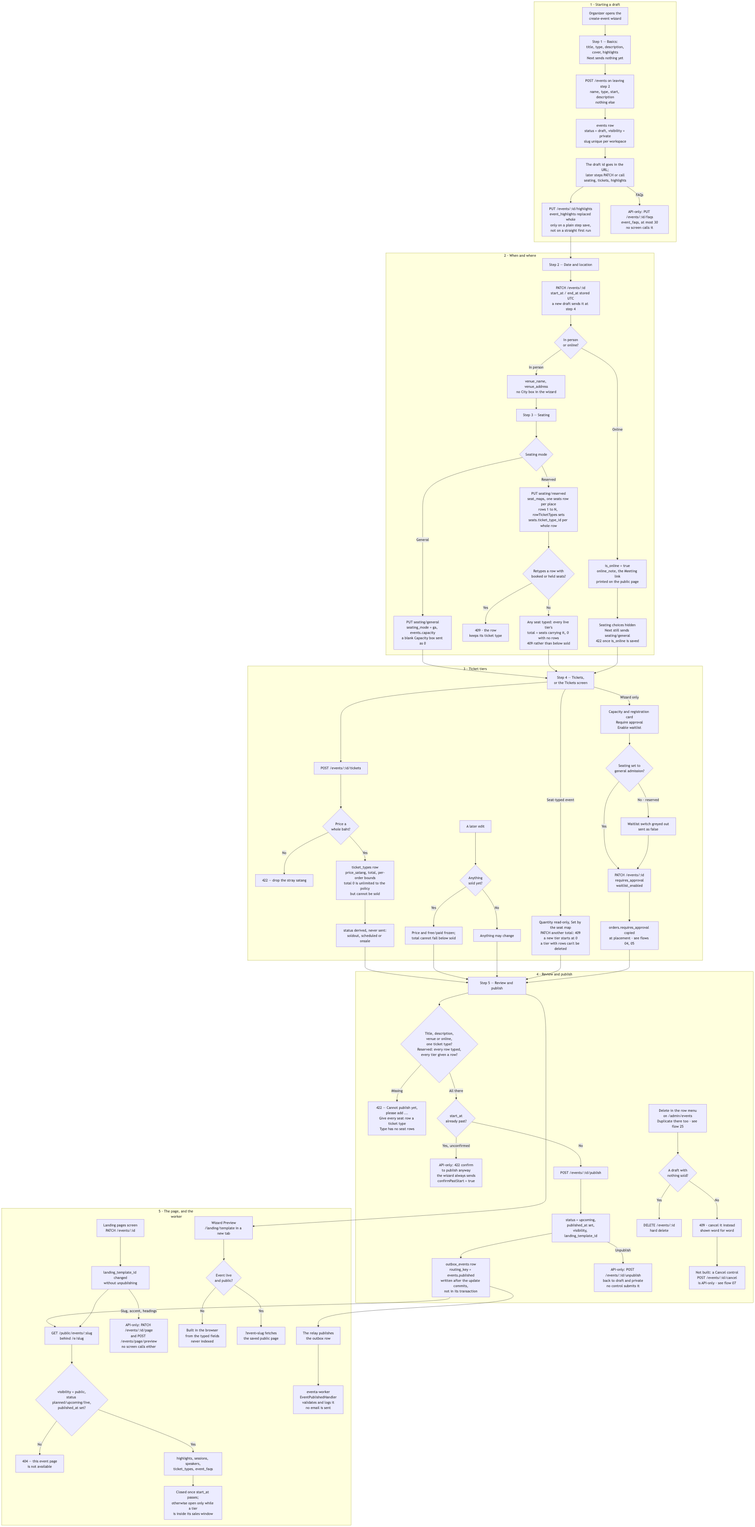
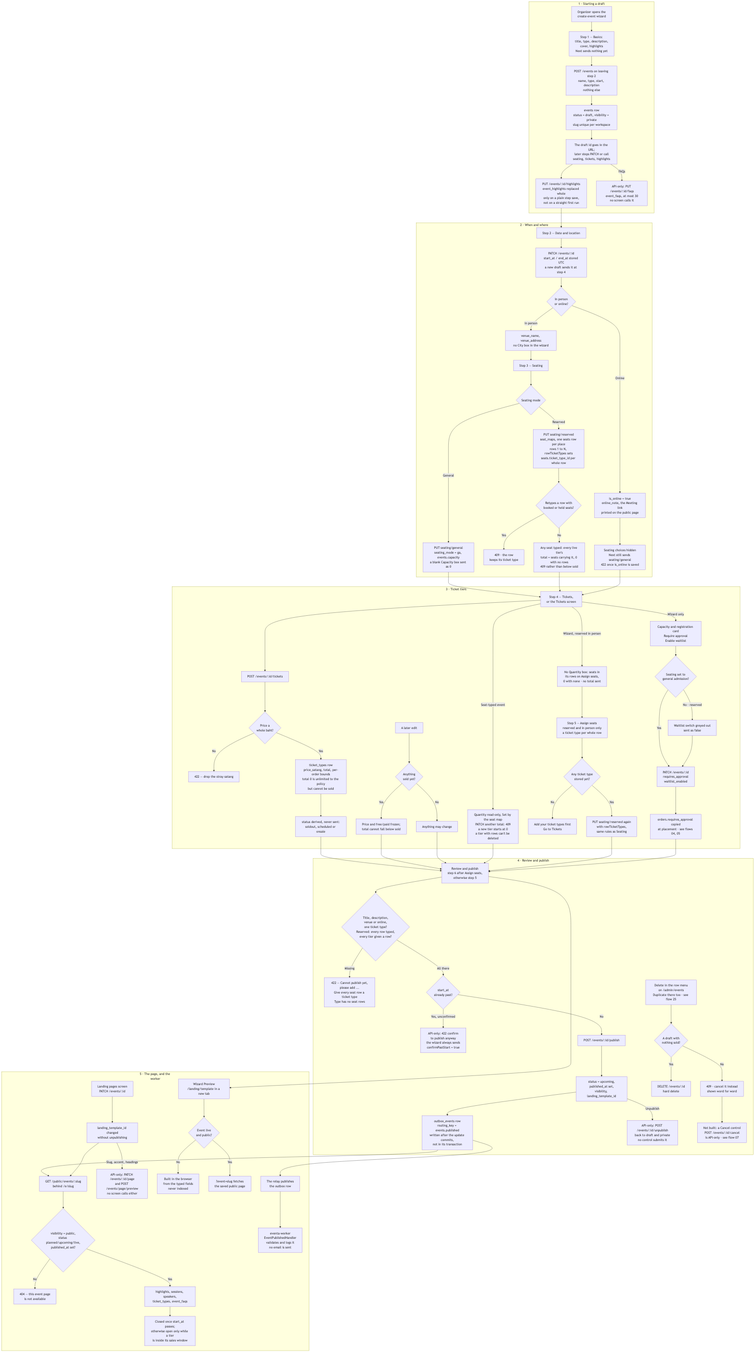
docs(flowcharts): draw the Assign seats step after Tickets (US-EVT-02, US-EVT-05, US-EVT-13)
Flowchart 13: the wizard has five steps, or six on an in-person reserved
event, where Assign seats follows Tickets and carries the Ticket types by
row list, its empty state and Go to Tickets; Seating keeps the layout and
preview with its hint, and both save through PUT seating/reserved. On
such an event the Tickets step has no Quantity box: it shows each tier's
seats from the row picks, 0 with none, and sends no total. New nodes for
the wizard's quantity, Assign seats and its save; Review and publish is
step 6 after Assign seats, else 5. Image re-rendered with Mermaid 11.4.1
(the old source reproduces the committed PNG byte for byte). Flowchart 25
says a duplicate's rows get their types on Assign seats.

Changed region(s): [[0.0, 0.0, 1.0, 1.0], [0.7188, 0.7126, 0.9688, 0.8675], [0.5312, 0.8056, 0.6562, 0.8675]]

diff --git a/04-architecture/flowcharts/13-create-and-publish-an-event.md b/04-architecture/flowcharts/13-create-and-publish-an-event.md
@@ -2,13 +2,13 @@
 
 **Screens:** Create event wizard, Landing pages, Tickets
 
-How an organizer turns an idea into a public page an attendee can register on. It starts in the admin console's five-step wizard, which creates a draft on the first save and edits it from then on, and ends when the event is live at its own public address and eventa-worker has consumed the publish notice. Nothing here is attendee-facing: the organizer persona signs in at `/auth/login` for `/admin/*`, and the page it produces needs no account at all to read. Copying an event into a new draft and deleting one are not part of the wizard: both live in the row menu on `/admin/events` and are drawn in [Categories, duplicating and deleting events](25-manage-events.md).
+How an organizer turns an idea into a public page an attendee can register on. It starts in the admin console's wizard — five steps, or six on an in-person event with reserved seating, where Assign seats follows Tickets — which creates a draft on the first save and edits it from then on, and ends when the event is live at its own public address and eventa-worker has consumed the publish notice. Nothing here is attendee-facing: the organizer persona signs in at `/auth/login` for `/admin/*`, and the page it produces needs no account at all to read. Copying an event into a new draft and deleting one are not part of the wizard: both live in the row menu on `/admin/events` and are drawn in [Categories, duplicating and deleting events](25-manage-events.md).
 
 ![Create and publish an event](images/13-create-and-publish-an-event.png)
 
 1. **Starting a draft.** The wizard at `/admin/event-form` opens blank and makes no calls at all until something is saved — on the API this is not one submit but a create followed by a long run of patches. `POST /events` needs a start and the start is asked for on step 2, so Next on Basics sends nothing and step 2's Next stays disabled until a title and a start date are filled; leaving step 2 is the create. That first save posts to `/events` (permission `evCreate`) with only a name, a type from the `event_type` enum, a start instant and an optional description — nothing else the first two steps hold, so the venue, end, online flag and cover typed there are first written by a later `PATCH` (on a straight run, step 4's) — and inserts an `events` row with `status = 'draft'`, `bucket = 'active'`, `visibility = 'private'` and `published_at` still null. The slug is derived from the name (latin `a-z0-9` and hyphens, at most 80 characters), falls back to `event` when that leaves fewer than three characters (a Thai-only title, for instance), and is tried as `-2`, `-3`… until it is free, because `uq_events_org_slug` makes it unique per workspace rather than globally; `organizer_name` falls back to the workspace's own name and `created_by` records who did it. The description is rich text the organizer authors in Quill and an anonymous reader later loads, so it is sanitised on the way **in** and capped at 10,000 characters of markup. The new id goes straight into the URL — from then on a refresh or a closed tab cannot strand a draft nobody can find. The cover image is a separate two-step upload (`POST /events/cover/upload-url`, then `PUT` straight to storage, then `POST /events/cover`); it writes to no table, is staged per **organization** rather than per event because step 1 runs before a draft exists to key it to, and only the confirmed URL is saved, in `events.cover_image`. The Basics step's highlights are a `PUT /events/:id/highlights` that replaces `event_highlights` as a whole — at most 12 — so what the organizer sees is exactly what the page renders. That call goes out only with the wizard's plain step save — Next on Basics or Date & location once the draft exists, or the header's Save on those steps or on Review — never with the create, seating, tickets or publish calls; so on a straight first run through a new event the highlights typed on Basics are never sent, unless the organizer goes back and saves one of those steps. FAQs have the same shape on the API — `PUT /events/:id/faqs` (`evCreate`) replaces `event_faqs` whole, at most 30 — but that endpoint is **API-only: no screen calls it**. The wizard has no FAQ field and no other console screen authors FAQs, so `event_faqs` stays empty unless something calls the API directly, and every template simply leaves the FAQ section out when there are none.
-2. **When and where.** Step 2's fields reach `events` through `PATCH /events/:id` — on an existing draft when step 2 is left, on a new one only with step 4's save, because leaving step 2 was the create. `start_at` and `end_at` are `timestamptz` — stored UTC, typed and displayed in Asia/Bangkok, with `events.timezone` defaulting to `'Asia/Bangkok'`. An end before or equal to the start is refused. An in-person event fills `venue_name` and `venue_address` — the wizard has no City box and re-sends whatever `city` is already stored, blank for a new event; an online one sets `is_online = true` with an `online_note`, and the public page then never publishes a physical location even if one is stored. It does publish `online_note` itself: the wizard labels that box **Meeting link** with a hint that it is emailed after registration, yet `GET /public/events/:slug` returns it and every template prints it in place of "Join link sent after you register". Step 3 is the room. General admission is a headcount: `PUT /events/:eventId/seating/general` sets `seating_mode = 'ga'` and writes the number into `events.capacity`. Reserved seating is a grid: `PUT /events/:eventId/seating/reserved` writes one `seat_maps` row per event (`uq_seat_maps_event`) carrying `layout` as `{ rows, seatsPerRow }` and `total_seats`, plus one `seats` row per position with `status = 'available'` — the `seat_status` enum is `available`, `held`, `reserved`, `sold`, `blocked`. Rows are numbered, not lettered: `seats.row_label` is `"1"` to `"N"`, and the wizard's preview labels them the same way. The same request splits the map between the event's ticket types by **whole rows**: `rowTicketTypes` carries one entry per row (index 0 is row `"1"`), each a live tier of this event or `null`, and the save writes that tier into `seats.ticket_type_id` on every seat of the row. A tier from anywhere else is a 422 ("Row {n}'s ticket type isn't one of this event's ticket types."), and so is a list whose length is not the row count; leaving the list out keeps each surviving row's type and gives new rows none. It is one transaction, locking the seat map, then the event's live `ticket_types`, then the map's `seats`. A row that has any seat booked (a `seat_assignments` row with `released_at` null) or held (an `active`, unexpired `seat_holds` row) keeps its type: a save that would change it is a 409, "Row {n} has booked or held seats, so its ticket type can't change.", read through a port the registration side implements. Once any seat on the map carries a tier the event is **seat-typed**, and in the same transaction Ticketing — through a port that takes the transaction — sets every live tier's `total` to the number of seats carrying it, `0` for a tier with no rows, and re-derives its `status` as it does whenever `total` changes; it never writes a `total` below `sold`, refusing the whole save with a 409 instead ("{Type} has sold {sold} tickets, more than the {n} seats its rows now hold."). `GET …/seating`, and the save's own response, return `rows` (`rowLabel`, `ticketTypeId`, `seats`, sorted numerically) and `unassignedRows`. The Seating step draws this as a **Ticket types by row** list — Row 1 to Row N, each a select of the event's ticket types plus "No ticket type" — and colours the preview by type, with a legend of each type's name and seat count and unassigned rows in a neutral colour. Tickets is the next step, so on a first run there is nothing to choose yet and the step says "Add your ticket types in the Tickets step, then come back here to give each row a type." A map laid out before rows carried types, with every seat's `ticket_type_id` null, is not seat-typed: its tiers keep their typed totals and checkout sells any of its seats under any tier, until a save gives its rows types. Switching a reserved event back to general admission drops the map. Either way an **online** event is refused outright with a 422 ("Online events have no seating — …"), and on an event that is no longer a draft a layout change that would remove a seat already `sold` is refused too. The wizard hides the seating choices for an online event, but its Next still sends `PUT …/seating/general`: on a first run that succeeds, because `is_online` has not been saved yet, and once it has, the refusal shows as the wizard's error banner while it moves on to Tickets. The wizard has no headcount box on this step either: the number it sends is the **Capacity** box on step 4's card, and a blank box is sent as `0`. So a first run, which leaves Seating before that box is reached, stores `events.capacity = 0` until step 4's `PATCH` carries a number; left blank there, the nought stays — that `PATCH` omits a blank capacity, and `UpdateEventDto.capacity` must be positive — and a reload shows `0`. The summary rail still renders `—` for a blank or zero capacity, because "as many as the tiers allow" and "nobody may come" are different facts, but the stored value says nought.
-3. **Ticket tiers.** Step 4, and the standalone Tickets screen at `/admin/tickets`, both write `ticket_types` through `POST /events/:eventId/tickets` and `PATCH /events/:eventId/tickets/:ticketId`. `price_satang` is integer satang and VAT-inclusive; prices are set in whole baht, so a stray satang is refused, and the browser converts what was typed with `Math.round(baht × 100)` rather than sending a float. A free tier sets `is_free` and is held to a zero price by `ck_ticket_types_free_price`. `total` is the allocation, and the ticketing policy reads `0` as unlimited — never derived `soldout`, no per-order ceiling — but nothing downstream agrees: `ck_ticket_types_sold` keeps `sold` between 0 and `total`, the seat-hold engine counts free places as `total - sold - held`, and the public page counts `total - sold` remaining, so a tier left at `0` — which is what a blank Quantity box in the wizard creates — is shown sold out and cannot actually be sold. `min_per_order` and `max_per_order` sit inside the platform's eight-seat booking cap and, where the organizer types the allocation, inside the allocation itself. On a seat-typed event (below) the seat map sets the allocation, so the per-order limit answers to the eight-seat cap alone: a tier whose rows hold four seats can keep a limit of 8, since otherwise every edit to it would be refused over a number the organizer cannot change here. What the tier is **not** given is its own availability: `status` is always derived server-side by the ticketing policy — `soldout` when the allocation is exhausted, `scheduled` while `sales_start_at` is still ahead, otherwise `onsale` — so the only value a human owns is `paused`, which survives until Resume and is refused a resume once `sales_end_at` has passed. Two rules protect sales already made: once `sold > 0` the price and the paid/free setting are frozen (a new tier is the answer), and `total` can never be set below `sold`. Raising `total` is the one edit with a side effect — the new places are offered to anyone waiting (see [Waitlist](04-waitlist.md)), and a failure there is reported as the offers being cut short rather than undoing the organizer's capacity change. Deleting a tier that never sold erases the row; one with sales is soft-deleted via `deleted_at`, so it leaves the list and stops selling while every issued ticket still resolves to it. The last remaining tier cannot go, and neither can one somebody is checking out with — an active `seat_holds` row refuses the delete with a sentence saying to pause it and try again. On a **seat-typed** event (step 2) the quantity belongs to the seat map, not the organizer. The ticket list and detail responses carry `quantityFromSeats: true` (`false` on every other event), so the wizard's Tickets step and the Tickets screen show the seat count read-only, marked "Set by the seat map"; a `PATCH` with any other `total` is a 409 ("This event's ticket quantities come from its seat map. Give rows to a ticket type instead."), while sending the same number, or changing any other field, goes through. A tier created on a seat-typed event starts at `total = 0` until Seating gives it rows, whatever `total` the request sent; and a tier that still owns rows can be neither deleted nor retired — a 409, "{Type} still has seat rows. Give them to another ticket type first." The same wizard step also carries the event's two registration rules, on a **Capacity & registration** card under the tier table — the only place in the console that sets them; the standalone Tickets screen does not. Saving the step sends both in the `PATCH /events/:id` (`evCreate`) that goes out before any tier is written, into `events.requires_approval` and `events.waitlist_enabled`, each `false` until switched on. **Require approval** holds every registration placed from then on for the organizer's decision (see [Approval](05-approval.md)). It is copied onto each `orders` row as `orders.requires_approval` at placement, so flipping the switch later never changes the deal a buyer was shown; and while it is on, a raised `total` no longer offers its new places to the line by itself — the organizer offers them by hand, because handing out a place on such an event is itself the decision. **Enable waitlist** only means something on general admission. When step 3 chose reserved seating the switch is greyed out, with a hint that a freed seat cannot be offered without somebody choosing it, and the wizard sends `false` whatever it was left at. The API does not refuse the combination at write time — `PATCH /events/:id` accepts `waitlistEnabled = true` on a reserved event — but the rule holds where it matters: checkout refuses to join a reserved event's line ("The waitlist is for general-admission tickets; this event seats people by seat."), and a raised allocation never offers places to one (see [Waitlist](04-waitlist.md)).
+2. **When and where.** Step 2's fields reach `events` through `PATCH /events/:id` — on an existing draft when step 2 is left, on a new one only with step 4's save, because leaving step 2 was the create. `start_at` and `end_at` are `timestamptz` — stored UTC, typed and displayed in Asia/Bangkok, with `events.timezone` defaulting to `'Asia/Bangkok'`. An end before or equal to the start is refused. An in-person event fills `venue_name` and `venue_address` — the wizard has no City box and re-sends whatever `city` is already stored, blank for a new event; an online one sets `is_online = true` with an `online_note`, and the public page then never publishes a physical location even if one is stored. It does publish `online_note` itself: the wizard labels that box **Meeting link** with a hint that it is emailed after registration, yet `GET /public/events/:slug` returns it and every template prints it in place of "Join link sent after you register". Step 3 is the room. General admission is a headcount: `PUT /events/:eventId/seating/general` sets `seating_mode = 'ga'` and writes the number into `events.capacity`. Reserved seating is a grid: `PUT /events/:eventId/seating/reserved` writes one `seat_maps` row per event (`uq_seat_maps_event`) carrying `layout` as `{ rows, seatsPerRow }` and `total_seats`, plus one `seats` row per position with `status = 'available'` — the `seat_status` enum is `available`, `held`, `reserved`, `sold`, `blocked`. Rows are numbered, not lettered: `seats.row_label` is `"1"` to `"N"`, and the wizard's preview labels them the same way. The same request splits the map between the event's ticket types by **whole rows**: `rowTicketTypes` carries one entry per row (index 0 is row `"1"`), each a live tier of this event or `null`, and the save writes that tier into `seats.ticket_type_id` on every seat of the row. A tier from anywhere else is a 422 ("Row {n}'s ticket type isn't one of this event's ticket types."), and so is a list whose length is not the row count; leaving the list out keeps each surviving row's type and gives new rows none. It is one transaction, locking the seat map, then the event's live `ticket_types`, then the map's `seats`. A row that has any seat booked (a `seat_assignments` row with `released_at` null) or held (an `active`, unexpired `seat_holds` row) keeps its type: a save that would change it is a 409, "Row {n} has booked or held seats, so its ticket type can't change.", read through a port the registration side implements. Once any seat on the map carries a tier the event is **seat-typed**, and in the same transaction Ticketing — through a port that takes the transaction — sets every live tier's `total` to the number of seats carrying it, `0` for a tier with no rows, and re-derives its `status` as it does whenever `total` changes; it never writes a `total` below `sold`, refusing the whole save with a 409 instead ("{Type} has sold {sold} tickets, more than the {n} seats its rows now hold."). `GET …/seating`, and the save's own response, return `rows` (`rowLabel`, `ticketTypeId`, `seats`, sorted numerically) and `unassignedRows`. The wizard gives this a step of its own. On an in-person event with reserved seating — and only there — **Assign seats** comes after Tickets, so the rail reads Basics, Date & location, Seating, Tickets, Assign seats, Review & publish; general admission and online events keep the five steps without it. The list is worked out from the seating choice and the online flag, so switching back to general admission drops the step again and keeps the open step inside the shorter list. The Seating step keeps the layout — rows, seats per row and the total — with the preview, under which it says "After Tickets, give each row a ticket type in Assign seats." Assign seats draws the **Ticket types by row** list — Row 1 to Row N, each a select of the event's stored ticket types plus "No ticket type" — and colours the same preview by type, with a legend of each type's name and seat count and unassigned rows in a neutral colour. A row can point only at a tier the API has stored, so until the Tickets step has saved one, Assign seats says "Add your ticket types in the Tickets step first, then give each row one here." and offers a **Go to Tickets** button instead. Both steps save through the same `PUT …/seating/reserved`, carrying the map and the whole `rowTicketTypes` list: on a first run Seating's save lays out rows that have no type yet, and Assign seats' save is the one that types them and so sets the tiers' totals. A map laid out before rows carried types, with every seat's `ticket_type_id` null, is not seat-typed: its tiers keep their typed totals and checkout sells any of its seats under any tier, until a save gives its rows types. Switching a reserved event back to general admission drops the map. Either way an **online** event is refused outright with a 422 ("Online events have no seating — …"), and on an event that is no longer a draft a layout change that would remove a seat already `sold` is refused too. The wizard hides the seating choices for an online event, but its Next still sends `PUT …/seating/general`: on a first run that succeeds, because `is_online` has not been saved yet, and once it has, the refusal shows as the wizard's error banner while it moves on to Tickets. The wizard has no headcount box on this step either: the number it sends is the **Capacity** box on step 4's card, and a blank box is sent as `0`. So a first run, which leaves Seating before that box is reached, stores `events.capacity = 0` until step 4's `PATCH` carries a number; left blank there, the nought stays — that `PATCH` omits a blank capacity, and `UpdateEventDto.capacity` must be positive — and a reload shows `0`. The summary rail still renders `—` for a blank or zero capacity, because "as many as the tiers allow" and "nobody may come" are different facts, but the stored value says nought.
+3. **Ticket tiers.** Step 4, and the standalone Tickets screen at `/admin/tickets`, both write `ticket_types` through `POST /events/:eventId/tickets` and `PATCH /events/:eventId/tickets/:ticketId`. `price_satang` is integer satang and VAT-inclusive; prices are set in whole baht, so a stray satang is refused, and the browser converts what was typed with `Math.round(baht × 100)` rather than sending a float. A free tier sets `is_free` and is held to a zero price by `ck_ticket_types_free_price`. `total` is the allocation, and the ticketing policy reads `0` as unlimited — never derived `soldout`, no per-order ceiling — but nothing downstream agrees: `ck_ticket_types_sold` keeps `sold` between 0 and `total`, the seat-hold engine counts free places as `total - sold - held`, and the public page counts `total - sold` remaining, so a tier left at `0` — which is what a blank Quantity box in the wizard creates on a general-admission or online event — is shown sold out and cannot actually be sold. `min_per_order` and `max_per_order` sit inside the platform's eight-seat booking cap and, where the organizer types the allocation, inside the allocation itself. On a seat-typed event (below) the seat map sets the allocation, so the per-order limit answers to the eight-seat cap alone: a tier whose rows hold four seats can keep a limit of 8, since otherwise every edit to it would be refused over a number the organizer cannot change here. What the tier is **not** given is its own availability: `status` is always derived server-side by the ticketing policy — `soldout` when the allocation is exhausted, `scheduled` while `sales_start_at` is still ahead, otherwise `onsale` — so the only value a human owns is `paused`, which survives until Resume and is refused a resume once `sales_end_at` has passed. Two rules protect sales already made: once `sold > 0` the price and the paid/free setting are frozen (a new tier is the answer), and `total` can never be set below `sold`. Raising `total` is the one edit with a side effect — the new places are offered to anyone waiting (see [Waitlist](04-waitlist.md)), and a failure there is reported as the offers being cut short rather than undoing the organizer's capacity change. Deleting a tier that never sold erases the row; one with sales is soft-deleted via `deleted_at`, so it leaves the list and stops selling while every issued ticket still resolves to it. The last remaining tier cannot go, and neither can one somebody is checking out with — an active `seat_holds` row refuses the delete with a sentence saying to pause it and try again. On a **seat-typed** event (step 2) the quantity belongs to the seat map, not the organizer. The ticket list and detail responses carry `quantityFromSeats: true` (`false` on every other event), so the Tickets screen shows the seat count read-only, marked "Set by the seat map"; a `PATCH` with any other `total` is a 409 ("This event's ticket quantities come from its seat map. Give rows to a ticket type instead."), while sending the same number, or changing any other field, goes through. The wizard goes further: on **any** in-person reserved event, seat-typed yet or not, its Tickets step has no Quantity box. Each tier shows, read-only under the same "Set by the seat map", the seats its rows hold, counted from the row picks on Assign seats as they stand — rows of that type times seats per row, so it moves the moment a row changes hands, and `0` for a tier not yet saved or with no rows — and a note under the list says "Each type's quantity is the seats in its rows — give rows a type in the next step, Assign seats." The step's save leaves `total` out of every tier's request: a new tier is created at `0`, and an existing one keeps what is stored until Assign seats types the map and the seat counts replace it. Meanwhile, on a map laid out before rows carried types, whose totals are still the organizer's, the stored number can be changed only outside the wizard, on the Tickets screen. A tier created on a seat-typed event starts at `total = 0` until Assign seats gives it rows, whatever `total` the request sent; and a tier that still owns rows can be neither deleted nor retired — a 409, "{Type} still has seat rows. Give them to another ticket type first." The same wizard step also carries the event's two registration rules, on a **Capacity & registration** card under the tier table — the only place in the console that sets them; the standalone Tickets screen does not. Saving the step sends both in the `PATCH /events/:id` (`evCreate`) that goes out before any tier is written, into `events.requires_approval` and `events.waitlist_enabled`, each `false` until switched on. **Require approval** holds every registration placed from then on for the organizer's decision (see [Approval](05-approval.md)). It is copied onto each `orders` row as `orders.requires_approval` at placement, so flipping the switch later never changes the deal a buyer was shown; and while it is on, a raised `total` no longer offers its new places to the line by itself — the organizer offers them by hand, because handing out a place on such an event is itself the decision. **Enable waitlist** only means something on general admission. When step 3 chose reserved seating the switch is greyed out, with a hint that a freed seat cannot be offered without somebody choosing it, and the wizard sends `false` whatever it was left at. The API does not refuse the combination at write time — `PATCH /events/:id` accepts `waitlistEnabled = true` on a reserved event — but the rule holds where it matters: checkout refuses to join a reserved event's line ("The waitlist is for general-admission tickets; this event seats people by seat."), and a raised allocation never offers places to one (see [Waitlist](04-waitlist.md)).
 4. **Review and publish.** `POST /events/:id/publish` needs the stronger `evPublish` permission, and refuses a draft that is not ready. The readiness gate asks for four things — a title, a description, a venue or an online link (checked as a `venue_name` or `is_online = true`), and at least one ticket type — and answers a 422 naming the ones still missing ("Cannot publish yet — please add …"). A reserved event must also have a ticket type on every seat row and at least one row for every live ticket type, and those gaps join the same 422 as sentences of their own, after any "Cannot publish yet — please add …": "Give every seat row a ticket type before publishing." and "{Type} has no seat rows. Give it a row or remove it." (the error's details list `seating` beside the other requirement keys). A draft whose map was laid out before rows carried types counts as having untyped rows — that one sentence, not one per ticket type as well — so it cannot publish until they get types; an event that is already published is never re-checked. The wizard's checklist applies the same rules locally, so the button and the server agree before it is pressed, and counts only tiers the API has actually stored; on a reserved event it adds "Every seat row has a ticket type" and keeps Publish disabled while a row has none. A ticket type with no rows is not checked locally: that refusal reaches the organizer as the API's sentence in the page's error banner. A start date already in the past is refused with a 422 unless the request carries `confirmPastStart` — but the wizard always sends `confirmPastStart: true`, without asking, so from the console a past start publishes with no prompt and that refusal is **API-only**. A `version` that no longer matches is a 409 asking for a reload, which is what stops two people publishing different drafts of the same event. On success the row moves to `status = 'upcoming'` with `bucket = 'active'` and `published_at` stamped, and the request's optional `visibility` and `landing_template_id` are applied in the same write. Worth knowing: `planned` and `live` exist in the `event_status` enum and are accepted as live by the public-page, discover and checkout queries, but nothing ever writes them — publishing always lands on `upcoming`. Once that write has committed, the service enqueues an `outbox_events` row with `aggregate_type = 'event'` and `routing_key = 'events.published'` — through `OutboxPort.enqueue` on its own connection, not `enqueueIn` inside the update's transaction, so the state change and the message about it do **not** commit together: a failure between the two leaves a published event with no `events.published` row, and the organizer an error for a publish that stood. Unpublishing, `POST /events/:id/unpublish` (`evPublish`), is the exact reverse and loses nothing: `status` back to `draft`, `visibility` back to `private`, `published_at` cleared, every tier, seat and highlight preserved — but it is **API-only: no screen calls it**; the wizard's route action keeps an `unpublish` branch that no control submits. Deleting and duplicating happen in the row menu on `/admin/events`, not here (see [Categories, duplicating and deleting events](25-manage-events.md) steps 5 and 6). `DELETE /events/:id` (`evPublish`) hard-deletes only a draft with nothing sold; a published event, or a draft with registrations, is refused with a 409 whose sentence tells the organizer to cancel it instead — but **the console has no Cancel control**. The row menu shows that sentence word for word and offers nothing more, and `POST /events/:id/cancel` is **API-only: no screen calls it** (see [Refund and cancellation](07-refund-and-cancellation.md) step 1).
 5. **The page, and the worker.** The public page lives at `/e/<slug>` and is served by `GET /public/events/:slug`, which returns a row only when `visibility = 'public'`, `status` is one of `planned`/`upcoming`/`live`, `published_at` is not null and `deleted_at` is null — anything else is a plain "This event page isn't available." `unlisted` is in the `visibility` enum but is not treated as reachable by that query, so today only `public` has a page. The payload is assembled read-only from `event_highlights`, `sessions`, `speakers`, `ticket_types` and `event_faqs`, with the accent colour falling back to `#2563EB` when none is stored or the stored one is not `#rrggbb`, and the template falling back to `aurora`. Registration is reported closed once `start_at` has passed and "not open yet" while every tier sits outside its sales window — a tier whose stored `status` still reads `onsale` is refused at checkout outside its sales window, because registration's own eligibility rules check the window rather than trusting that badge, which is deliberate (see [Checkout and payment](02-checkout-and-payment.md)); an event with `requires_approval` set confirms nothing at checkout either (see [Approval](05-approval.md)). The **Landing pages** screen offers the four designs — `aurora` (Classic), `noir` (Spotlight), `minimal` (Minimal), `atlas` (Vibrant), seeded into the global `landing_templates` lookup — and "Use template" is a plain `PATCH /events/:id` setting `landing_template_id` on the event chosen in the screen's switcher (with no event yet it is only a link to the wizard), deliberately so: it used to be settable only while publishing, which meant wanting a new look required taking a live event down. Everything else about the page is **API-only: no screen calls it**. `PATCH /events/:id/page` (`evPublish`) can move the slug (409 when it is taken in the workspace), the accent colour and the agenda/speakers headings, and `POST /events/page/preview` (`evCreate`) renders a page from values that have never been saved — it writes nothing and is flagged `noIndex` so a preview can never leak into search. No console screen lets an organizer change the address, the accent colour or those headings, and the wizard's own update leaves `accentColor` out, so a value set through the API survives a save. The wizard's **Preview** button — in its header on every step, and again on the review step — does not use that endpoint either. On an event that is not yet served publicly it opens `/landing/<template>` in a new tab with the typed title, venue, online flag and highlights packed into the query string, and the page is built in the browser from those alone, with no agenda, speakers, tickets or FAQs: no API call, never indexed. Once the event is live and `public` it opens `/landing/<template>?event=<slug>` instead, which fetches the real public page and therefore shows what is saved, not what is on screen. Finally, the asynchronous part, which is the piece readers most often get wrong: **publishing sends no email.** The API only wrote the `outbox_events` row; the relay publishes it to RabbitMQ, and eventa-worker's `EventPublishedHandler` consumes `events.published`, validates the payload and writes it to the structured log, nothing more — delivering the team's "Event published" notification is deferred, because the message carries a slug, a name and who published it, and no recipient addresses at all.
 
@@ -51,6 +51,11 @@ flowchart TD
     X -- "Yes" --> Y["Price and free/paid frozen;<br/>total cannot fall below sold"]
     X -- "No" --> Z["Anything may change"]
     Q -- "Seat-typed event" --> QS["Quantity read-only, Set by the seat map<br/>PATCH another total: 409<br/>a new tier starts at 0<br/>a tier with rows can't be deleted"]
+    Q -- "Wizard, reserved in person" --> QW["No Quantity box: seats in<br/>its rows on Assign seats,<br/>0 with none · no total sent"]
+    QW --> AS["Step 5 — Assign seats<br/>reserved and in person only<br/>a ticket type per whole row"]
+    AS --> AS1{"Any ticket type<br/>stored yet?"}
+    AS1 -- "No" --> AS2["Add your ticket types first<br/>Go to Tickets"]
+    AS1 -- "Yes" --> AS3["PUT seating/reserved again<br/>with rowTicketTypes,<br/>same rules as Seating"]
     Q -- "Wizard only" --> SW1["Capacity and registration card<br/>Require approval<br/>Enable waitlist"]
     SW1 --> SW2{"Seating set to<br/>general admission?"}
     SW2 -- "No · reserved" --> SW3["Waitlist switch greyed out<br/>sent as false"]
@@ -60,7 +65,7 @@ flowchart TD
   end
 
   subgraph GATE["4 · Review and publish"]
-    AA["Step 5 — Review and publish"] --> AB{"Title, description,<br/>venue or online,<br/>one ticket type?<br/>Reserved: every row typed,<br/>every tier given a row?"}
+    AA["Review and publish<br/>step 6 after Assign seats,<br/>otherwise step 5"] --> AB{"Title, description,<br/>venue or online,<br/>one ticket type?<br/>Reserved: every row typed,<br/>every tier given a row?"}
     AB -- "Missing" --> AC["422 — Cannot publish yet,<br/>please add ...<br/>Give every seat row a ticket type<br/>Type has no seat rows"]
     AB -- "All there" --> AD{"start_at<br/>already past?"}
     AD -- "Yes, unconfirmed" --> AE["API-only: 422 confirm<br/>to publish anyway<br/>the wizard always sends<br/>confirmPastStart = true"]
@@ -95,6 +100,7 @@ flowchart TD
   Y --> AA
   Z --> AA
   QS --> AA
+  AS3 --> AA
   SW5 --> AA
   AH --> AI
   AH --> AP

diff --git a/04-architecture/flowcharts/25-manage-events.md b/04-architecture/flowcharts/25-manage-events.md
@@ -35,7 +35,7 @@ What an organizer does with events after creating them. The flow starts on `/adm
      Not carried over: `agenda_title`, `speakers_title`, `locale`, `event_highlights`, `event_faqs`, `discount_codes` and invitations.
    - **The ticket tiers.** Every live `ticket_types` row is copied with its name, `is_free`, `price_satang`, currency, admission type, `total`, per-order limits and icon. `sold` starts at its column default of 0, and `sales_start_at` and `sales_end_at` are cleared. **`status` is copied as it was stored**, not re-derived. A tier stored as `soldout`, `scheduled` or `paused` arrives that way on the copy with nothing sold and no sales window. Checkout refuses any tier that is not `onsale`, and the status is only recomputed when the organizer edits or resumes the tier. A `paused` copy stays paused through an edit, until Resume. A tier's `includes`, `is_recommended` and `badge` are not copied.
    - **Speakers, then sessions.** Live speakers are copied first, which yields a map from old speaker ids to new ones. Live sessions are copied next, and their speaker links are rebuilt through that map. Not every column comes across: a speaker's `bio`, `photo_url`, `website`, `social_links` and `rating`, and a session's `description`, are left behind.
-   - **The seat map.** When the source has a seat map (reserved seating), a new `seat_maps` row is written with the same layout, and the seats are regenerated from it, every one `available`. The source's sold and held seats do not come across. Its rows carry **no ticket types**, even where the source's did (US-EVT-05), so the copy is not seat-typed: its tiers keep the `total`s copied from the source as ordinary quantities the organizer can edit, and publishing the copy is refused with "Give every seat row a ticket type before publishing." until Seating gives every row a type, which derives the totals from the rows again (see [13](13-create-and-publish-an-event.md) steps 2 and 4).
+   - **The seat map.** When the source has a seat map (reserved seating), a new `seat_maps` row is written with the same layout, and the seats are regenerated from it, every one `available`. The source's sold and held seats do not come across. Its rows carry **no ticket types**, even where the source's did (US-EVT-05), so the copy is not seat-typed: its tiers keep the `total`s copied from the source as ordinary quantities the organizer can edit on the Tickets screen (the wizard's Tickets step shows no Quantity box on a reserved event and leaves them as they are), and publishing the copy is refused with "Give every seat row a ticket type before publishing." until the wizard's Assign seats step gives every row a type, which derives the totals from the rows again (see [13](13-create-and-publish-an-event.md) steps 2 and 4).
 
    Nothing hanging off the source's id is copied: no orders, tickets, payments, attendees or waitlist entries. No outbox row or audit row is written. A failure partway through leaves the stages that already ran in place, so the result is a partial draft, and the menu shows the error. Double-submit protection exists only in the browser. The button disables and reads "Working…" while its request is in flight, but the endpoint takes no idempotency key. Two separate requests, from two tabs or from a retry after a timeout, produce two copies (`-copy` and `-copy-2`); US-EVT-13 says only one should be created. On success the menu closes and the list's loader runs again, re-reading `GET /events` and `GET /events/summary`, so the Active badge counts the copy. The copy's **Edit** link opens `/admin/event-form?id=<copy>` and continues as flow 13.
 
